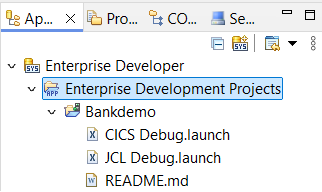
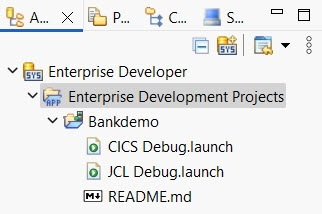
Updated screenshots and made some text modifications. (#34)
Bankdemo is now working with enabled ES security.
* Included some information that users should have the SYSAD password so that they can provide it when prompted.
* Included the mfsecretsadmin read command

Changed region(s): [[0.0, 0.2812, 0.9006, 1.0], [0.0, 0.0, 1.0, 0.2812]]

diff --git a/tutorial/gettingstarted/visualstudio/readme.md b/tutorial/gettingstarted/visualstudio/readme.md
@@ -53,6 +53,16 @@ The preconfigured and fully executing application BankDemo is available from the
 
 ## Enterprise Server Security
 
+In this release, the Enterprise Server security features are enabled by default. Make sure that you have the SYSAD password handy so that you can provide it whenever you are prompted. 
+
+To retrieve the default generated password:
+
+1. Open Enterprise Developer command prompt.
+2. Run the command `mfsecretsadmin read microfocus/temp/admin`.
+3. Note down the generated password.
+
+<!-- ## Enterprise Server Security
+
 In this release, the Enterprise Server security features are enabled by default. However, tutorials that use enterprise server regions assume that Enterprise Server security is not configured. To perform this tutorial without modification, disable the default configured Enterprise Server security. See *Disable the Default Enterprise Server Security Configuration* for more information.
 
 ### Disable the Default Enterprise Server Security Configuration
@@ -71,7 +81,7 @@ In this release, the Enterprise Server security features are enabled by default.
     Regions no longer require credentials for starting, stopping and other actions.
 
 
-
+-->
 
 ## Starting the Visual Studio Integrated Development Environment
 
@@ -704,7 +714,6 @@ To execute the JCL, you must run the application in an instance of the Rocket En
 
 **Importing the Bankdemo Server**
 
-.
 
 1.  Open Windows PowerShell and navigate to the `C:\MFETDUSER\tutorial` folder.
 2.  Run `set-ExecutionPolicy RemoteSigned -Scope CurrentUser`.
@@ -740,19 +749,17 @@ Ensure that the default settings are applied to the Directory Sever:
 
     ![](images/03218b9fa5693aaca14ff3cf3aa3dd1b.jpg) **Tip:** Use the Auto Hide button (![](images/bf74b6a329048075497d723393231eba.jpg)) in the Server Explorer toolbar to pin the window to the IDE window.
 
-3.  Right-click **Rocket Enterprise Servers** and select **Add Directory Server**. This opens the Rocket Directory Server window. 
+3.  Right-click **Rocket Enterprise Server** and select **Add Directory Server**. This opens the Rocket Directory Server window. 
 
 4.  Ensure that the host name is `localhost` and the port number is `86`.
 
 Now you can import the definition of the Bankdemo logical server (LSER) in Enterprise Server:
 
-1.  In Visual Studio, open the Server Explorer window.
-
-2.  Expand **Rocket Enterprise Server**.
+1.  In Visual Studio, in the Server Explorer window, expand **Rocket Enterprise Server**.
 
     If you are presented with the **Enterprise Server Sign On** dialog box, click **OK**.
 
-3.  Right-click **localhost** and click **Import**.
+3.  Right-click **Default** and click **Import**.
 4.  In the **Import Server** dialog box, click **...** on the line for **Import server definition file**.
 5.  Browse to the `C:\MFETDUSER\tutorial` folder, select **BANKDEMO.xml**, click **Open**, and click **OK**.
 

diff --git a/tutorial/gettingstarted/eclipse/README.md b/tutorial/gettingstarted/eclipse/README.md
@@ -55,7 +55,19 @@ For example, Directory Server  is configured, by default, to use port 86. You mu
 
 If you want remote users to access Enterprise Server functionality through the firewall, we recommend that you use fixed port values, so that you can control access via these.
 
+
 ## Enterprise Server Security
+
+In this release, the Enterprise Server security features are enabled by default. Make sure that you have the SYSAD password handy so that you can provide it whenever you are prompted.
+
+To retrieve the default generated password:
+
+1. Open Enterprise Developer command prompt.
+2. Run the command `mfsecretsadmin read microfocus/temp/admin`.
+3. Note down the generated password.
+
+<!--
+ ## Enterprise Server Security
 
 In this release, the Enterprise Server security features are enabled by default. Tutorials that use enterprise server regions, however, assume that Enterprise Server security is not configured. To perform this tutorial without modification, you must disable the default configured Enterprise Server security. See *Disable the Default Enterprise Server Security Configuration* for more information.
 
@@ -67,6 +79,7 @@ In this release, the Enterprise Server security features are enabled by default.
 2. Restart the Directory Server (MFDS) and Enterprise Server Common Web Administration (ESCWA) services to pick up the configuration changes. You can now use ESCWA without having to log in.
 3. Restart any running enterprise server regions to have them pick up the configuration changes. Regions will no longer require credentials for starting or stopping and other actions.
 
+-->
 
 ## Starting the Eclipse Integrated Development Environment (IDE)
 
@@ -796,11 +809,11 @@ To view the catalog:
 To view the spool:
 
 1.  In **Server Explorer**, right-click the BANKDEMO server and select **Show Spool**.
-2.  Double-click the name of one of the jobs in the list to open the details in a new tab.
+2.  Double-click the name of the job to open the details in a new tab.
 
     ![](images/ea36d8374884cc2250e25160fa077a34.png)\
     
-3.  To see the details about a job, click the **Edit** icon. The details about the job are displayed in the **DD Details** window.
+3.  Details about the job are displayed in their own sections. Scroll down to the DD Entries section, select a result and click the **Edit** icon. The details are displayed in the **DD Details** window.
 
     ![](images/2fa4e0ba0e3925ed4279c4c8a995af04.jpg)
 

diff --git a/tutorial/gettingstarted/eclipseux/readme.md b/tutorial/gettingstarted/eclipseux/readme.md
@@ -55,6 +55,19 @@ For example, Directory Server is configured, by default, to use port 86. You mus
 
 If you want remote users to access Enterprise Server functionality through the firewall, we recommend that you use fixed port values, so that you can control access via these.
 
+
+## Enterprise Server Security
+
+In this release, the Enterprise Server security features are enabled by default. Make sure that you have the SYSAD password handy so that you can provide it whenever you are prompted.
+
+To retrieve the default generated password:
+
+1. Source the cobsetenv script. 
+    You may need to be running as either the Enterprise Server account (as specified when installing the product) or root, in order to have read access to the vault.
+2. Run the command `mfsecretsadmin read microfocus/temp/admin`.
+3. Note down the generated password.
+
+<!--
 ## Enterprise Server Security
 
 In this release, the Enterprise Server security features are enabled by default. Tutorials that use enterprise server regions, however, assume that Enterprise Server security is not configured. To perform this tutorial without modification, you must disable the default configured Enterprise Server security. See *Disable the Default Enterprise Server Security Configuration* for more information.
@@ -74,7 +87,7 @@ In this release, the Enterprise Server security features are enabled by default.
 3. Restart any running enterprise server regions to have them pick up the configuration changes. 
 
     Regions will no longer require credentials for starting or stopping and other actions.
-
+-->
 ## Starting the Eclipse Integrated Development Environment (IDE)
 
 [Back to Top](#overview)
@@ -779,11 +792,11 @@ To view the catalog:
 To view the spool:
 
 1.  In **Server Explorer**, right-click the **BANKDEMO** server and click **Show Spool**.
-2.  Double-click the name of one of the jobs in the list to open the details in a new tab.
+2.  Double-click the name of the job to open the details in a new tab.
 
     ![](images/00cd8757e37d31aaf294d49f3bff8251.png)
 
-3.  To see the details about a job, click the **Edit** icon. The details about the job are displayed in the **DD Details** window.
+3.  Details about the job are displayed in their own sections. Scroll down to the DD Entries section, select a result and click the **Edit** icon. The details are displayed in the **DD Details** window.
 
     ![](images/2fa4e0ba0e3925ed4279c4c8a995af04.jpg)
 
